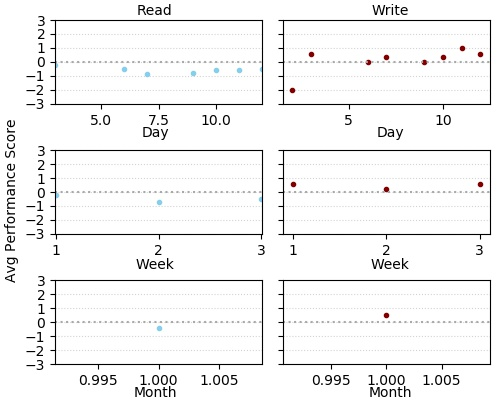
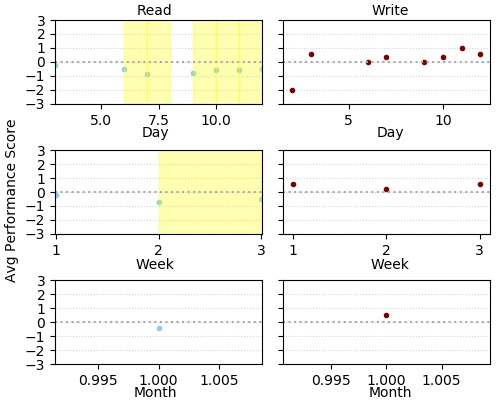
added phase coloring

Changed region(s): [[0.24, 0.03, 0.54, 0.27], [0.3, 0.36, 0.54, 0.6]]

diff --git a/example/simple_user.py b/example/simple_user.py
@@ -242,18 +242,21 @@ for app in top_apps:
         mask = df.loc[:,'Operation'] == op 
         pos = np.flatnonzero(mask)
         df = df.iloc[pos]
-        print(df)
         df = df[['Performance Z-Score',x_axis]].groupby(x_axis, as_index=False).mean()
-        print(df)
         x = df.loc[:,x_axis]
         y = df.loc[:,'Performance Z-Score']
         axes[n][0].scatter(x, y, marker='.', color='skyblue',label=op)
         axes[n][0].set_ylim(-3, 3)
+        for i in range(0,len(y)):
+            if y[i]>0.5:
+                axes[n][0].axvspan(x[i], x[i]+1, alpha=0.3, color='green')
+            elif y[i]<-0.5:
+                axes[n][0].axvspan(x[i], x[i]+1, alpha=0.3, color='yellow')
         axes[n][0].set_ylabel('')
         axes[n][0].set_yticks(np.arange(-3,4,1))
         axes[n][0].yaxis.grid(color='lightgrey', linestyle=':')
-        axes[n][0].set_axisbelow(True)
         axes[n][0].axhline(y=0, color='darkgrey', linestyle=':')
+        axes[n][0].set_axisbelow(True)
         axes[n][0].set_xlabel(" ")
         axes[n][0].margins(0)
         # Now, write
